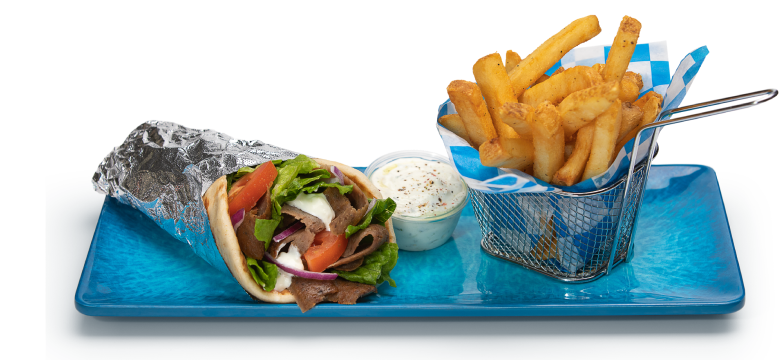
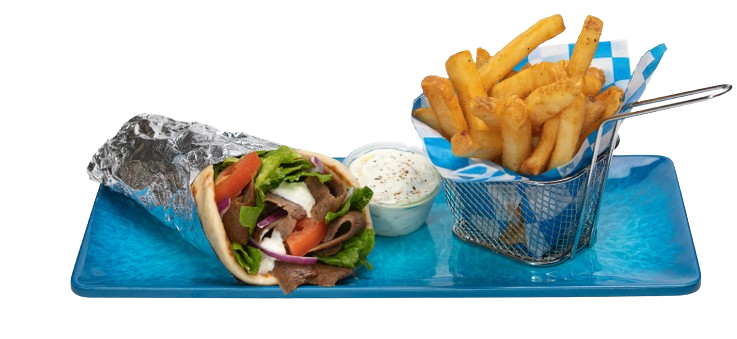
last version

diff --git a/index.css b/index.css
@@ -66,6 +66,9 @@
 .plates-hero > img:first-child {
   filter: drop-shadow(10px 10px 10px rgba(0, 0, 0, 0.6));
 }
+.plates-hero > img:last-child {
+  filter: drop-shadow(3px 14px 5px rgba(0, 0, 0, 0.6));
+}
 
 /* Responsive's 1  */
 @media (max-width: 1380px) {
@@ -400,6 +403,9 @@
   .overview {
     display: block;
   }
+  .support-card-content > p {
+    line-height: 20px;
+  }
 }
 @media (max-width: 700px) {
   .bg-img-card {
@@ -409,6 +415,9 @@
   }
   .overview {
     display: none;
+  }
+  .support-card-content > p {
+    line-height: 30px;
   }
   .bg-img-card > .support-card > .support-card-content > p {
     color: var(--gray);
@@ -502,6 +511,20 @@
 .respond-bloc-2 {
   flex: 1;
 }
+
+.respond-section > .respond-bloc:last-child > .respond-bloc-2 > img,
+.respond-section > .respond-bloc:nth-child(2) > .respond-bloc-2 > img {
+  filter: drop-shadow(3px 14px 5px rgba(0, 0, 0, 0.6));
+}
+.respond-section > .respond-bloc:first-child > .respond-bloc-2 > img,
+.respond-section > .respond-bloc:nth-child(3) > .respond-bloc-2 > img {
+  filter: drop-shadow(10px 10px 10px rgba(0, 0, 0, 0.6));
+}
+
+/* .respond-bloc:first-child > .respond-bloc-2 > img {
+  width: 70%;
+  height: 70%;
+} */
 
 .respond-bloc-2 > img {
   width: 100%;
@@ -619,6 +642,30 @@
 }
 .chat-with-your7 {
   font-size: 28px;
+}
+
+@media (max-width: 1270px) {
+  .footer-content {
+    top: -30px;
+    padding: var(--mar-padd-21xl);
+  }
+  .footer-message {
+    padding-top: var(--mar-padd-11xl);
+    padding-bottom: 0px;
+    top: -18px;
+    text-align: center;
+    font-size: 15px;
+  }
+  .footer-message {
+    padding-top: var(--mar-padd-11xl);
+    padding-bottom: 0px;
+    top: -18px;
+    text-align: center;
+    font-size: 15px;
+  }
+  .chat-with-your7 {
+    font-size: 20px;
+  }
 }
 
 @media (max-width: 1000px) {

diff --git a/global.css b/global.css
@@ -2,6 +2,9 @@ body {
   margin: 0;
   line-height: normal;
 }
+p {
+  line-height: 30px;
+}
 
 :root {
   /* fonts */
